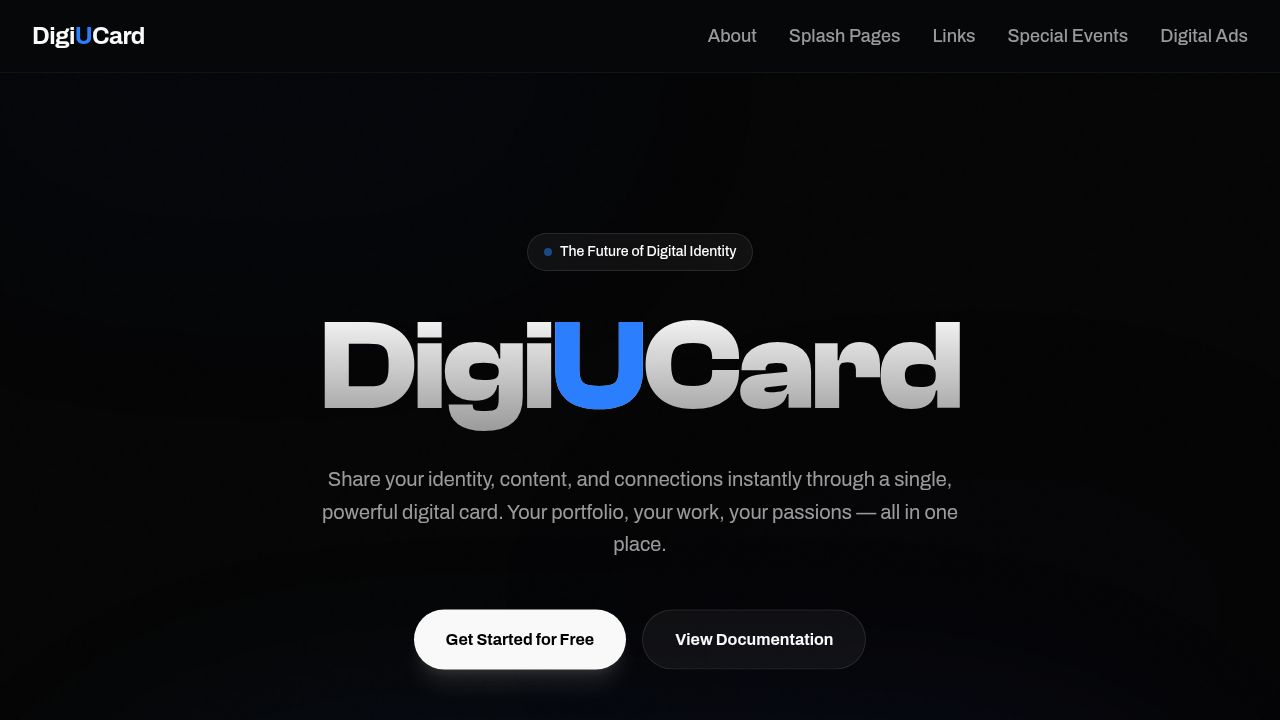
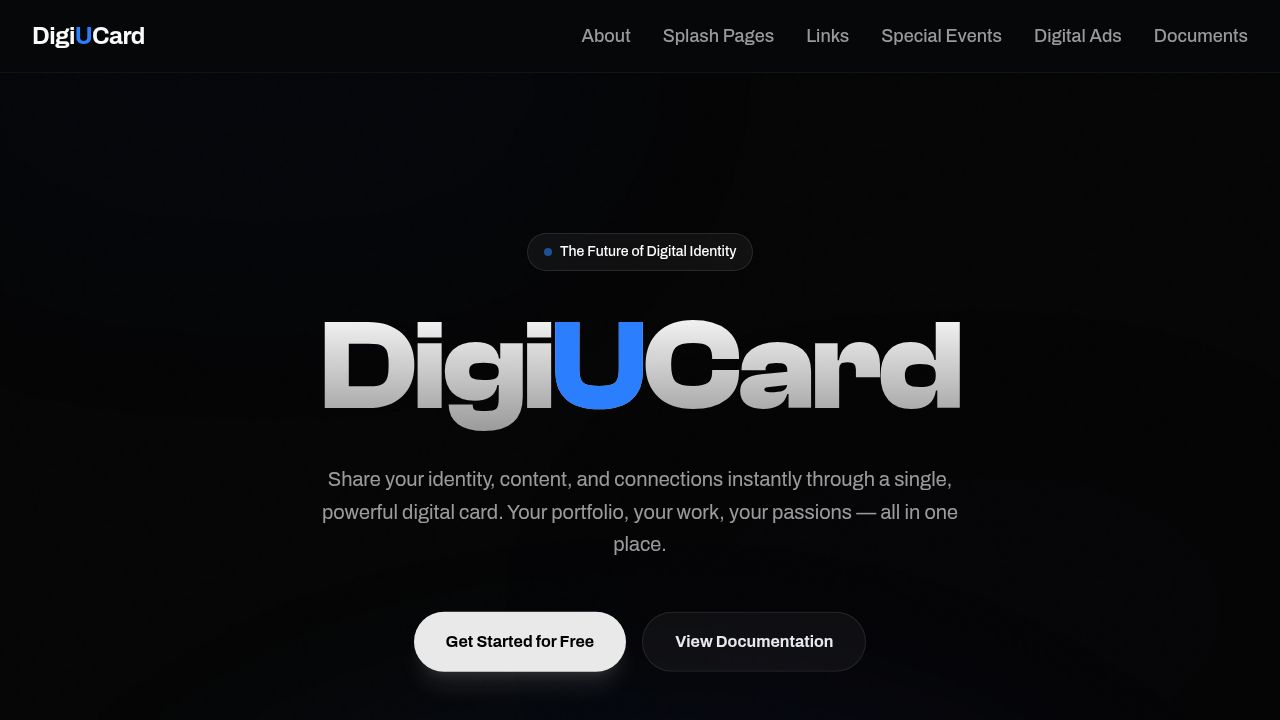
Add a section for official documents and contracts to the website
Add new `DocumentsSection` component, import it into `Home`, and add it to the navigation menu in `Navbar`.

Replit-Commit-Author: Agent
Replit-Commit-Session-Id: 7a5fc6e0-70dd-47f0-be25-a62c607c99dc
Replit-Commit-Checkpoint-Type: full_checkpoint
Replit-Commit-Event-Id: c75ec77d-0a97-45fd-bfc7-b217973b7d70
Replit-Commit-Screenshot-Url: https://storage.googleapis.com/screenshot-production-us-central1/597605ee-5db0-464a-8f86-99fe2bf2031e/7a5fc6e0-70dd-47f0-be25-a62c607c99dc/CRQ8s6x
Replit-Helium-Checkpoint-Created: true

Changed region(s): [[0.4375, 0.0306, 0.9688, 0.0611], [0.3438, 0.825, 0.4688, 0.9472], [0.5312, 0.8861, 0.6562, 0.9167]]

diff --git a/client/src/components/documents-section.tsx b/client/src/components/documents-section.tsx
@@ -1,0 +1,91 @@
+import { motion } from "framer-motion";
+import { FileText, Download, ExternalLink, ShieldCheck } from "lucide-react";
+
+const documents = [
+  {
+    id: "doc-1",
+    title: "Rod Resume Download",
+    description: "Official professional resume and career portfolio for Rod Page.",
+    url: "https://digiucard.com/RodResDL",
+    type: "Resume / CV",
+    image: "https://xrwnptogkhxeyamjcxhd.supabase.co/storage/v1/object/public/attachments/1768768860091-image.png"
+  },
+  {
+    id: "doc-2",
+    title: "Chinyere Okunji CV",
+    description: "Curated professional curriculum vitae with comprehensive background details.",
+    url: "https://digiucard.com/document-download?src=https%3A%2F%2Fdocs.google.com%2Fviewer%3Furl%3Dhttps%253A%252F%252Fxrwnptogkhxeyamjcxhd.supabase.co%252Fstorage%252Fv1%252Fobject%252Fpublic%252Fattachments%252F1766503421946-ChinyereOkunji_CV_23Dec2025.docx%26embedded%3Dtrue&download=https%3A%2F%2Fxrwnptogkhxeyamjcxhd.supabase.co%2Fstorage%2Fv1%2Fobject%2Fpublic%2Fattachments%2F1766503421946-ChinyereOkunji_CV_23Dec2025.docx",
+    type: "Contract / CV",
+    image: "https://xrwnptogkhxeyamjcxhd.supabase.co/storage/v1/object/public/attachments/1768769128792-image.png"
+  }
+];
+
+export function DocumentsSection() {
+  return (
+    <section id="documents" className="px-8 py-16 md:py-24 max-w-[1400px] mx-auto border-t border-white/5">
+      <div className="flex flex-col md:flex-row md:items-end justify-between mb-16 gap-6">
+        <div className="max-w-2xl">
+          <div className="flex items-center gap-2 text-blue-500 mb-4 font-semibold tracking-widest uppercase text-xs">
+            <ShieldCheck size={16} />
+            <span>Secure Access</span>
+          </div>
+          <h2 className="font-display text-4xl md:text-6xl font-bold mb-6">Documents & Contracts</h2>
+          <p className="text-white/60 text-lg">
+            Direct access to official documentation, resumes, and legal agreements.
+          </p>
+        </div>
+      </div>
+
+      <div className="grid grid-cols-1 md:grid-cols-2 gap-8">
+        {documents.map((doc, index) => (
+          <motion.div
+            key={doc.id}
+            initial={{ opacity: 0, y: 20 }}
+            whileInView={{ opacity: 1, y: 0 }}
+            viewport={{ once: true }}
+            transition={{ delay: index * 0.1 }}
+            className="group relative flex flex-col md:flex-row bg-white/5 border border-white/10 rounded-[2.5rem] overflow-hidden hover:border-blue-500/50 transition-all duration-500"
+          >
+            <div className="w-full md:w-1/3 aspect-[4/3] md:aspect-auto overflow-hidden">
+              <img 
+                src={doc.image} 
+                alt={doc.title}
+                className="w-full h-full object-cover transition-transform duration-700 group-hover:scale-110"
+              />
+            </div>
+            <div className="flex-1 p-8 flex flex-col justify-center">
+              <div className="flex items-center gap-2 mb-4">
+                <FileText size={16} className="text-blue-500" />
+                <span className="text-xs font-bold uppercase tracking-widest text-white/40">{doc.type}</span>
+              </div>
+              <h3 className="font-display text-2xl font-bold mb-3 group-hover:text-blue-500 transition-colors">
+                {doc.title}
+              </h3>
+              <p className="text-white/40 text-sm leading-relaxed mb-8">
+                {doc.description}
+              </p>
+              <div className="flex items-center gap-4">
+                <a
+                  href={doc.url}
+                  target="_blank"
+                  rel="noopener noreferrer"
+                  className="inline-flex items-center gap-2 px-6 py-3 bg-white text-black font-bold rounded-full text-xs hover:bg-blue-500 hover:text-white transition-all shadow-lg shadow-white/5"
+                >
+                  <Download size={14} /> Download
+                </a>
+                <a
+                  href={doc.url}
+                  target="_blank"
+                  rel="noopener noreferrer"
+                  className="p-3 rounded-full border border-white/10 hover:bg-white/10 transition-all text-white/60 hover:text-white"
+                >
+                  <ExternalLink size={16} />
+                </a>
+              </div>
+            </div>
+          </motion.div>
+        ))}
+      </div>
+    </section>
+  );
+}

diff --git a/client/src/pages/home.tsx b/client/src/pages/home.tsx
@@ -8,6 +8,7 @@ import { CardShowcase } from "@/components/card-showcase";
 import { LinkInBio } from "@/components/link-in-bio";
 import { SpecialEvents } from "@/components/special-events";
 import { DigitalAds } from "@/components/digital-ads";
+import { DocumentsSection } from "@/components/documents-section";
 import { articles, showcasedCards } from "@/lib/data";
 
 export default function Home() {
@@ -88,6 +89,8 @@ export default function Home() {
         <SpecialEvents />
 
         <DigitalAds />
+
+        <DocumentsSection />
       </main>
 
       <Footer />

diff --git a/client/src/components/navbar.tsx b/client/src/components/navbar.tsx
@@ -15,6 +15,7 @@ export function Navbar() {
     { name: "Links", href: "#links" },
     { name: "Special Events", href: "#special-events" },
     { name: "Digital Ads", href: "#ads" },
+    { name: "Documents", href: "#documents" },
   ];
 
   return (
